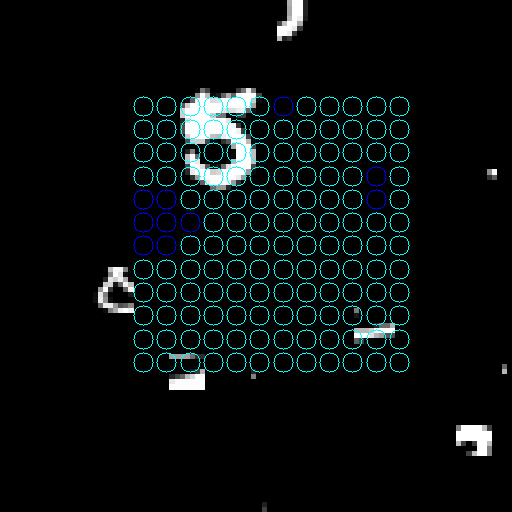
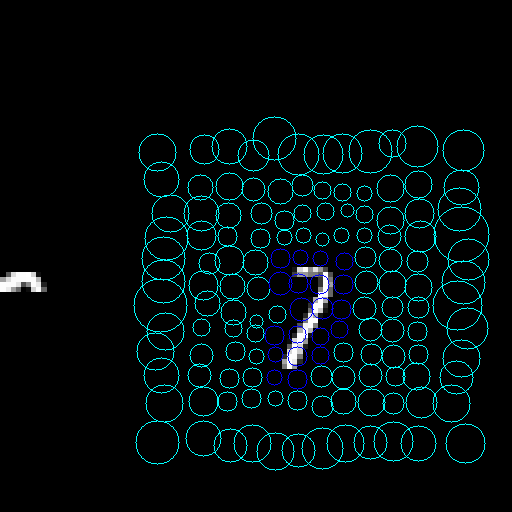
idek, still doesn't work

diff --git a/glimpse.py b/glimpse.py
@@ -21,6 +21,14 @@ class GlimpseModel(nn.Module):
         self.num_kernels = num_kernels  # chosen by Cheung et al.
         
         self.init_kernel_parameters()
+        
+        
+        x = torch.linspace(-1, 1, image_shape[0], device=self.device)  # (W,)
+        y = torch.linspace(-1, 1, image_shape[1], device=self.device)  # (H,)    
+        grid_y, grid_x = torch.meshgrid(x, y, indexing="ij")
+        
+        self.grid_x = grid_x.unsqueeze(0).unsqueeze(0)  # (1, 1, H, W)
+        self.grid_y = grid_y.unsqueeze(0).unsqueeze(0)  # (1, 1, H, W)
     
     def init_kernel_parameters(self):
         normalized_length = self.get_normalized_len_from_px_length(self.glimpse_window[0])
@@ -36,10 +44,10 @@ class GlimpseModel(nn.Module):
         mu_init = grid_points # num_kernels by 2
         sigma_init = torch.ones(self.num_kernels, ) * starting_sigma_normalize # learnable num_kernels
         
-        # self.mu = nn.Parameter(mu_init.to(self.device))
-        self.mu = mu_init.to(self.device)
-        # self.sigma = nn.Parameter(sigma_init.to(self.device))
-        self.sigma = sigma_init.to(self.device) # Make this learnable
+        self.mu = nn.Parameter(mu_init.to(self.device))
+        # self.mu = mu_init.to(self.device)
+        self.sigma = nn.Parameter(sigma_init.to(self.device))
+        # self.sigma = sigma_init.to(self.device) # Make this learnable
         
     
     # Assumes input_range is (-1, 1)
@@ -60,7 +68,7 @@ class GlimpseModel(nn.Module):
         k_largest_indices = real_k_largest_indices
                 
             
-        print("k_largest_indices", k_largest_indices)
+        # print("k_largest_indices", k_largest_indices)
         
         image = cv2.cvtColor(image, cv2.COLOR_GRAY2BGR)
         
@@ -108,25 +116,21 @@ class GlimpseModel(nn.Module):
         mu = (s_c.unsqueeze(1) + self.mu)*s_z.unsqueeze(1) # (B, num_kernels, 2) 
         sigma = self.sigma * s_z # (B, num_kernels)        
         # Generate sampling grid
-        x = torch.linspace(-1, 1, W, device=device)  # (W,)
-        y = torch.linspace(-1, 1, H, device=device)  # (H,)    
-        grid_y, grid_x = torch.meshgrid(x, y, indexing="ij")
-        
-        grid_x = grid_x.unsqueeze(0).unsqueeze(0)  # (1, 1, H, W)
-        grid_y = grid_y.unsqueeze(0).unsqueeze(0)  # (1, 1, H, W)
-        sigma = sigma.view(B, self.num_kernels, 1, 1)   
+
+        sigma = sigma.view(B, self.num_kernels, 1, 1)           
         
         # Compute the gaussian kernel
-        kernels_x = torch.exp(-0.5 * ((grid_x- mu[..., 0].view(B, self.num_kernels, 1, 1)) ** 2) / sigma ** 2)
-        kernels_y = torch.exp(-0.5 * ((grid_y - mu[..., 1].view(B, self.num_kernels, 1, 1)) ** 2) / sigma ** 2)
+        kernels_x = torch.exp(-0.5 * ((self.grid_x- mu[..., 0].view(B, self.num_kernels, 1, 1)) ** 2) / sigma ** 2)
+        kernels_y = torch.exp(-0.5 * ((self.grid_y - mu[..., 1].view(B, self.num_kernels, 1, 1)) ** 2) / sigma ** 2)
+        
         kernels = kernels_x*kernels_y   # (B, num_kernels, H, W)
 
         # normalize
         kernels /= (kernels.sum(dim=(-2, -1), keepdim=True) + 1e-7)
         
-        
         # Compute the weighted sum
         output = (imgs.unsqueeze(1) * kernels).sum(dim=(-2, -1)) # (B, num_kernels)
+        
         return output
 
 def read_image(file_pth):
@@ -143,12 +147,12 @@ def main():
     model = GlimpseModel(image_shape).to("cuda:0")
     
     U = torch.zeros((1, 100, 100), device="cuda:0")
-    # U[:, :, :] = U_old.to("cuda:0")
+    U[:, :, :] = U_old.to("cuda:0")
     # U[:, 40:60, 40:60] = 1
     
-    U[:, 90:100, 0:10] = 1
-    U[:, 15:35, 40:80] = 1
-    U[:, 0:5, 50:60] = 1
+    # U[:, 90:100, 0:10] = 1
+    # U[:, 15:35, 40:80] = 1
+    # U[:, 0:5, 50:60] = 1
     
     batch_size = len(U)
     

diff --git a/dataset/make_dataset.py b/dataset/make_dataset.py
@@ -54,7 +54,7 @@ def add_distractors_to_canvas(num_distractors, canvas, digit_dict, label):
         
     return canvas
 
-def add_target_digit_to_canvas(canvas, digit_dict, label, scaled):
+def add_target_digit_to_canvas(canvas, digit_dict, label, scaled, centered=False):
     target_digit = random.choice(digit_dict[label])
 
     if scaled:
@@ -69,13 +69,17 @@ def add_target_digit_to_canvas(canvas, digit_dict, label, scaled):
 
     # Place the target digit randomly on the canvas
     h, w = target_digit.shape
+    
     x_offset = random.randint(0, CANVAS_SIZE - w)
     y_offset = random.randint(0, CANVAS_SIZE - h)
+    if centered:
+        x_offset = CANVAS_SIZE//2 - w//2
+        y_offset = CANVAS_SIZE//2 - h//2
     canvas[y_offset:y_offset+h, x_offset:x_offset+w] = target_digit
     
     return canvas
 
-def create_cluttered_image(label, digit_dict, scaled=False):
+def create_cluttered_image(label, digit_dict, scaled=False, centered=False):
     canvas = np.zeros((CANVAS_SIZE, CANVAS_SIZE), dtype=np.uint8)  # Blank canvas
 
     # Add distractors
@@ -83,7 +87,7 @@ def create_cluttered_image(label, digit_dict, scaled=False):
     canvas = add_distractors_to_canvas(num_distractors, canvas, digit_dict, label)
     
     # Add target digit
-    canvas = add_target_digit_to_canvas(canvas, digit_dict, label, scaled)
+    canvas = add_target_digit_to_canvas(canvas, digit_dict, label, scaled, centered)
 
     return canvas
 
@@ -100,7 +104,7 @@ def main(args):
     # Generate images
     for label in range(10):
         for i in tqdm(range(args.num_images_per_class), f"Generating {label} images"):
-            canvas = create_cluttered_image(label, digit_dict, scaled=args.scaled)
+            canvas = create_cluttered_image(label, digit_dict, scaled=args.scaled, centered=args.centered)
             filename = os.path.join(args.output_dir, str(label), f"{i}.png")
             cv2.imwrite(filename, canvas)
 
@@ -109,5 +113,10 @@ if __name__ == "__main__":
     parser.add_argument("--output_dir", type=str, default="cluttered_mnist", help="Output directory for cluttered MNIST images")
     parser.add_argument("--scaled", action="store_true", help="Whether to create the scaled version of the dataset")
     parser.add_argument("--num_images_per_class", type=int, default=1000, help="Number of images to create per class")
+    parser.add_argument("--centered", action="store_true", help="Center the target digit in the image")
     args = parser.parse_args()
+    if args.centered:
+        print("CEMTERED option set")
+    if args.scaled:
+        print("SCALED option set")
     main(args)
